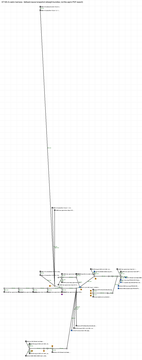
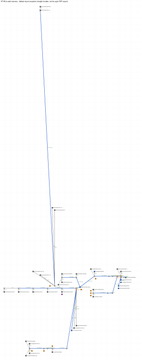
harness: N28 = A, remove the 5 empty bundle legs (R179) (#315)
A-cabin: A/C amp A18-5 break-off hangs straight off bp_fl_acamp; b_bp_1065 dead end deleted.
B-cabin: bp_900 / bp_930 dead end deleted.
CAN: bp_780 -> bp_840 deleted; cabin and engine CAN runs are two separate runs (note box).
No wire or endpoint change; R175 covering re-run unchanged; audit_bundle_topology 0 / 0 pending.

diff --git a/docs/harness/audit_bundle_topology.py b/docs/harness/audit_bundle_topology.py
@@ -27,13 +27,9 @@ import sys
 import model
 
 STUB_MAX = 100   # mm between two lugs of one stud, along the bundles
-# Findings waiting on Dan (OPEN-ITEMS Needs Dan N14): printed, not failing. Remove an entry once
+# Findings waiting on Dan (OPEN-ITEMS Needs Dan): printed, not failing. Remove an entry once
 # its drawing is fixed or Dan keeps it (then say so in DECISIONS R154). Anything new fails.
-PENDING_DAN = {
-    "A-cabin": {"bn_bp_fl_acamp__fl_acamp_mg", "b_bn_bp_1050__bp_1065"},
-    "B-cabin": {"bn_bp_870__bp_900", "bn_bp_900__bp_930"},
-    "CAN": {"bn_bp_780__bp_840"},
-}
+PENDING_DAN = {}   # N28 cleared 2026-10-18 (DECISIONS R179)
 
 
 def graph(d):

diff --git a/docs/harness/redesign/DECISIONS.md b/docs/harness/redesign/DECISIONS.md
@@ -194,6 +194,7 @@ of these lines. Gates in brackets are the scripts in `docs/harness/` that check 
 - **R176** (2026-10-18, Dan, N30 = A) **The four engine-side DRB size-12 feeds are 12 AWG.** BH-A engine c48 / c49 (injector and coil +12 V, `w_inj_pwr_e_ae` / `w_cop_pwr_e_ae`, `M22759/16-12-2`) and BH-B engine c3 / c4 (CAN-Lambda +12 V and ground, `w_lam12_be14` `M22759/16-12-2` / `w_lamg_be14` `M22759/16-12-0`): 12 AWG (2.82 - 2.97 mm) sits in the size-12 E-seal range 2.46 - 4.01 mm (TE 114-151021 3.3.E), 14 AWG did not (R173). Same size-12 contacts (`0460-220-1231` / `0462-210-1231`, 12 - 14 AWG), so the cabin halves stay 14 AWG and their fuses (LOGIC INJ / COP 15 A) are unchanged: a bigger wire after the same fuse. The splices they feed are soldered (no crimp range); the B-engine splice labels say 12 AWG. `sot/channels.csv` carries no gauge for these feeds, so the SoT is unchanged. [`check_all.py`]
 - **R177** (2026-10-18, Dan: "for solder joints it generally doesn't matter what size the wires are and heat shrink can always be layered to make up for size differences in wires... all you need to worry about is whether the wires that are going into it fit within the heat shrinks accepted range ... you don't want to heat shrink that doesn't shrink far enough or isn't open enough when it's unrecovered. but it doesn't matter if the wires on either end are different sizes as long as they are individually within the heat shrinks range." Clarified the same day: "if you combine more than one wire through one end of a heat shrink then the size that your calculating is based on those two stacked wires") **Heat shrink over a solder joint or splice is sized per END, not per wire.** At each end, the combined bundle of every wire entering that end must sit between the sleeve's fully-recovered ID (it must shrink down onto it) and its supplied, expanded ID (it must slide over it); the joint or splice in the middle must also pass through the supplied ID. The two ends may be different sizes, and the sleeve may be layered (a build-up layer) to make up a size difference. This closes the R117 rear lamp sleeve check (`ATUM-4/1-0-SP`, 4.0 mm supplied / 1.0 mm recovered): the pigtail OD no longer has to be measured to clear it, each end is checked on its own. The rear lamps themselves are on hold pending the LED / no-solder study (N32). [no gate: a sizing rule, applied by hand]
 - **R178** (2026-10-18, Dan, N34 = A: an LED-compatible electronic flasher in the stock socket, not switchable load resistors) **The turn-signal flasher is replaced by a load-independent LED electronic flasher, `CF13JL-02` (Super Bright LEDs, 3-pin Japanese type); no load resistors.** (1) **Stock part:** `T3`, Toyota `81980-12070` (superseded by `81980-32010`, Denso; US catalogue lists both for the 1990-1998 Celica incl. ST185L-BLMVZA / -BLMVZK), the TOP relay in J/B No.1 behind the LH kick panel (1993 Mitchell electrical article, location table). Three pins (EWD 1993 p.130-131, T3 connector figure and service hints): **2 = +12 V (B)** (live with ignition ON or hazard ON), **1 = flasher output (L)**, **3 = ground (E)**. The **hazard runs through it**: T3 pin 1 pulses with the turn switch left or right and with the hazard switch ON (EWD service hints), and pin 2 is live with the hazard ON, so one flasher drives turn and hazard. Wiring and the OEM J/B No.1 feeds are unchanged (R61: flasher T3, hazard H5, switch C15 stay OEM); only the unit in the socket changes. (2) **Replacement:** Super Bright LEDs `CF13JL-02`, 3-pin electronic, 12 V (11 - 15 V), switch load 0.02 - 20 A, max 150 W, flash 60 - 120 per minute, duty 30 - 70 %, -40 to +80 C, 2-year warranty, no load resistors needed (flashes the same with LED, incandescent or mixed loads), maker wiring diagram CF13JL-02 shows B+ / L / E. Hazard worst case (four incandescent turn lamps, assumed 27 W each, plus the dash pilots: about 115 W, under 10 A; the front bulb ratings were not checked) is inside the 150 W / 20 A rating. The dash turn indicators stay on the L circuit as before. It makes no click (the maker suggests an output relay if wanted). (3) **Why not load resistors:** Dan's choice. A resistor per LED turn lamp (rear LH and RH) means extra parts and heat inside or beside the lamp housings, sized to today's mix of bulbs; one load-independent flasher fixes hyper-flash in a single place whatever the lamps are. (4) **Only the turn signals need it.** Tail, stop, back-up, rear side marker, licence and high-mount stop lamps are not on the flasher circuit and need no resistor or flasher change when they go LED. (5) **Fit check before first power (Dan, by hand):** the roles above match the harness exactly, but the maker sheet does not label blade positions in the same view as the EWD, so confirm against the old flasher that the **L blade and the + blade sit in the same positions as T3 pin 1 and pin 2** before plugging in; a mirrored fit would swap + and - (reverse polarity). If the blades do not line up, do not force it: tell Dispatch; the fix would then be a small pigtail adapter into the J/B No.1 socket (not specified yet). Source status (R167): the maker (brand) page and wiring diagram plus the OEM EWD; the replacement is a generic OEM product sold under several names, no independent maker datasheet, so the pin geometry is the one unconfirmed item above. Buy: `docs/sourcing/README.md` "Picked parts not on hand". [no gate: harness wiring unchanged]
+- **R179** (2026-10-18, Dan, N28 = A) **The five empty bundle legs the R154 audit found are removed; a drawing carries no bundle leg that no wire runs through.** (1) `ST185-A-cabin`: the A/C amp A18-5 break-off (`br_ac_mg`, to A4-3) hangs straight off `bp_fl_acamp`; the 50 mm leg to the amp lead now carries `w_ac_clutch_mg` (no empty leg). (2) `ST185-A-cabin` dead end `b_bp_1050` -> `b_bp_1065` (30 mm) and (3) `ST185-B-cabin` dead end `bp_870` -> `bp_900` -> `bp_930` (40 + 10 mm) deleted. (4) `ST185-CAN` `bp_780` -> `bp_840` (130 mm) deleted: the cabin run (ECU COMMS, CSB3, cluster and Pi drops, bulkhead DRB102 pins 92 / 93 / 94 cabin side) and the engine run (bulkhead pins 92 / 93 / 94 engine side to the CAN-Lambda) are two separate runs; note box `n_can_two_runs` says so. The two runs sit on opposite sides of the firewall and meet only through bulkhead B, so there is no span where they could be taped together; the note says that instead of "taped together". No wire, endpoint or covering changed (R175 sizing re-run: same DR-25 pieces and boots). The R154 gate's pending list is now empty. [`audit_bundle_topology.py` T1, HARD]
 
 ### Body wiring (added 2026-10-12, second card)
 

diff --git a/docs/OPEN-ITEMS.md b/docs/OPEN-ITEMS.md
@@ -35,7 +35,6 @@ Open questions for Dan, the ONLY place they live (DECISIONS R119); the research 
 | ID | Topic | Question | Options | Recommended |
 |---|---|---|---|---|
 | N1 | Harness drawings review | Review and approve all 15 `.harness` drawings as they stand now: every wire end carries the R156 end label saying where it lands (#294-#300), and the R123 TE 280919-2 is on the 14 micro relay 85 / 86 ends. Open them in the desktop app from `docs/harness/rebuild/`. Replaces M7 (the review was paused for #264). | A) approve all 15 as they are; B) approve with markup on the drawings listed | A |
-| N28 | Empty bundle legs (R154 audit) | The new audit (`audit_bundle_topology.py`) found 5 bundle legs that carry no wire. None is a copied endpoint like N11, so they were left as drawn: (1) A-cabin `bp_fl_acamp` -> `fl_acamp_mg` 50 mm - the A/C amp A18-5 lead is broken off 20 mm beyond it toward A4-3, so the leg to the amp is empty; (2) A-cabin `b_bp_1050` -> `b_bp_1065` 30 mm and (3) B-cabin `bp_870` -> `bp_900` -> `bp_930` 40 + 10 mm - dead-end branch points with nothing beyond (old markers of where another loom meets the route); (4) CAN `bp_780` -> `bp_840` 130 mm - the Lambda CAN run and the bulkhead / CSB3 CAN run share no wire, so this leg only ties the two runs together. | A) delete the dead ends (2, 3), hang the A18-5 break-off straight off `bp_fl_acamp` (1), keep the CAN tie (4) as two runs taped together; B) delete (2, 3) only, keep (1) and (4); C) keep all as drawn | A |
 
 ## Status (2026-10-15)
 
@@ -136,6 +135,7 @@ goal 1-4 (then it gets its `[Gn]` tag and moves back up).
 
 ## History
 
+- 2026-10-18 - N28 = A built (branch `n28-empty-legs`, DECISIONS R179; Needs Dan N28 removed): the 5 empty bundle legs are gone - A-cabin A/C amp A18-5 break-off hung off `bp_fl_acamp`, A-cabin `b_bp_1065` and B-cabin `bp_900` / `bp_930` dead ends deleted, CAN `bp_780` -> `bp_840` deleted so the cabin and engine CAN runs are two separate runs (note box; they meet only through bulkhead B, opposite sides of the firewall, so not taped). No wire or endpoint change; R175 covering re-run unchanged; `audit_bundle_topology.py` 0 findings, 0 pending. -- Claude Code
 - 2026-10-18 - LED turn-signal flasher (N34 = A, branch `research/led-flasher-n34`, DECISIONS R178): stock flasher T3 = Toyota `81980-12070` / `81980-32010` in the J/B No.1 top relay (pins 2 = +12 V, 1 = out, 3 = ground; hazard through it); replacement Super Bright LEDs `CF13JL-02` (load-independent, no resistors), buy line in `docs/sourcing/README.md`. Only the turn signals need it. One open check for Dan: compare blade positions with the old flasher before power. Wiring unchanged. -- Claude Code
 - 2026-10-18 - Heat-shrink rule and N33 (branch `docs/r177-heatshrink-n33`): DECISIONS R177 (Dan: heat shrink over a joint is sized per end on the combined wires at that end, between the recovered and supplied ID; ends may differ, layering allowed) closes the R117 rear lamp ATUM-4/1 pigtail-size check; rear lamps on hold pending N32. N33 = A (siren in the engine bay) recorded on R173; the DT06-2S-CE05 siren plug already landed in #312.
 - 2026-10-18 - Seal fixes (branch `harness/seal-fixes-r173-r174-n30`, DECISIONS R173 / R174 applied, new R176 = N30 A; Needs Dan N30 removed; row 140 opened): 11 sealed-place DT housings to the E-seal versions (8 x DT06-2S-CE05, DT06-3S-CE05, DT06-6S-CE05, DT04-6P-CE03); the four engine-side DRB size-12 feeds 14 -> 12 AWG; injector 16 AWG contact 15326427 -> Aptiv 12191819; generic 1 / 2 / 3 / 4-core shielded cable -> TE Spec 55 55A1811 / 55A1821 / 55A1831 / 55A1841 (20 AWG); R175 DR-25 coverings and two A-engine boots re-sized for the real cable ODs; `part_desc.py` describes Spec 55 cables (braid only).
